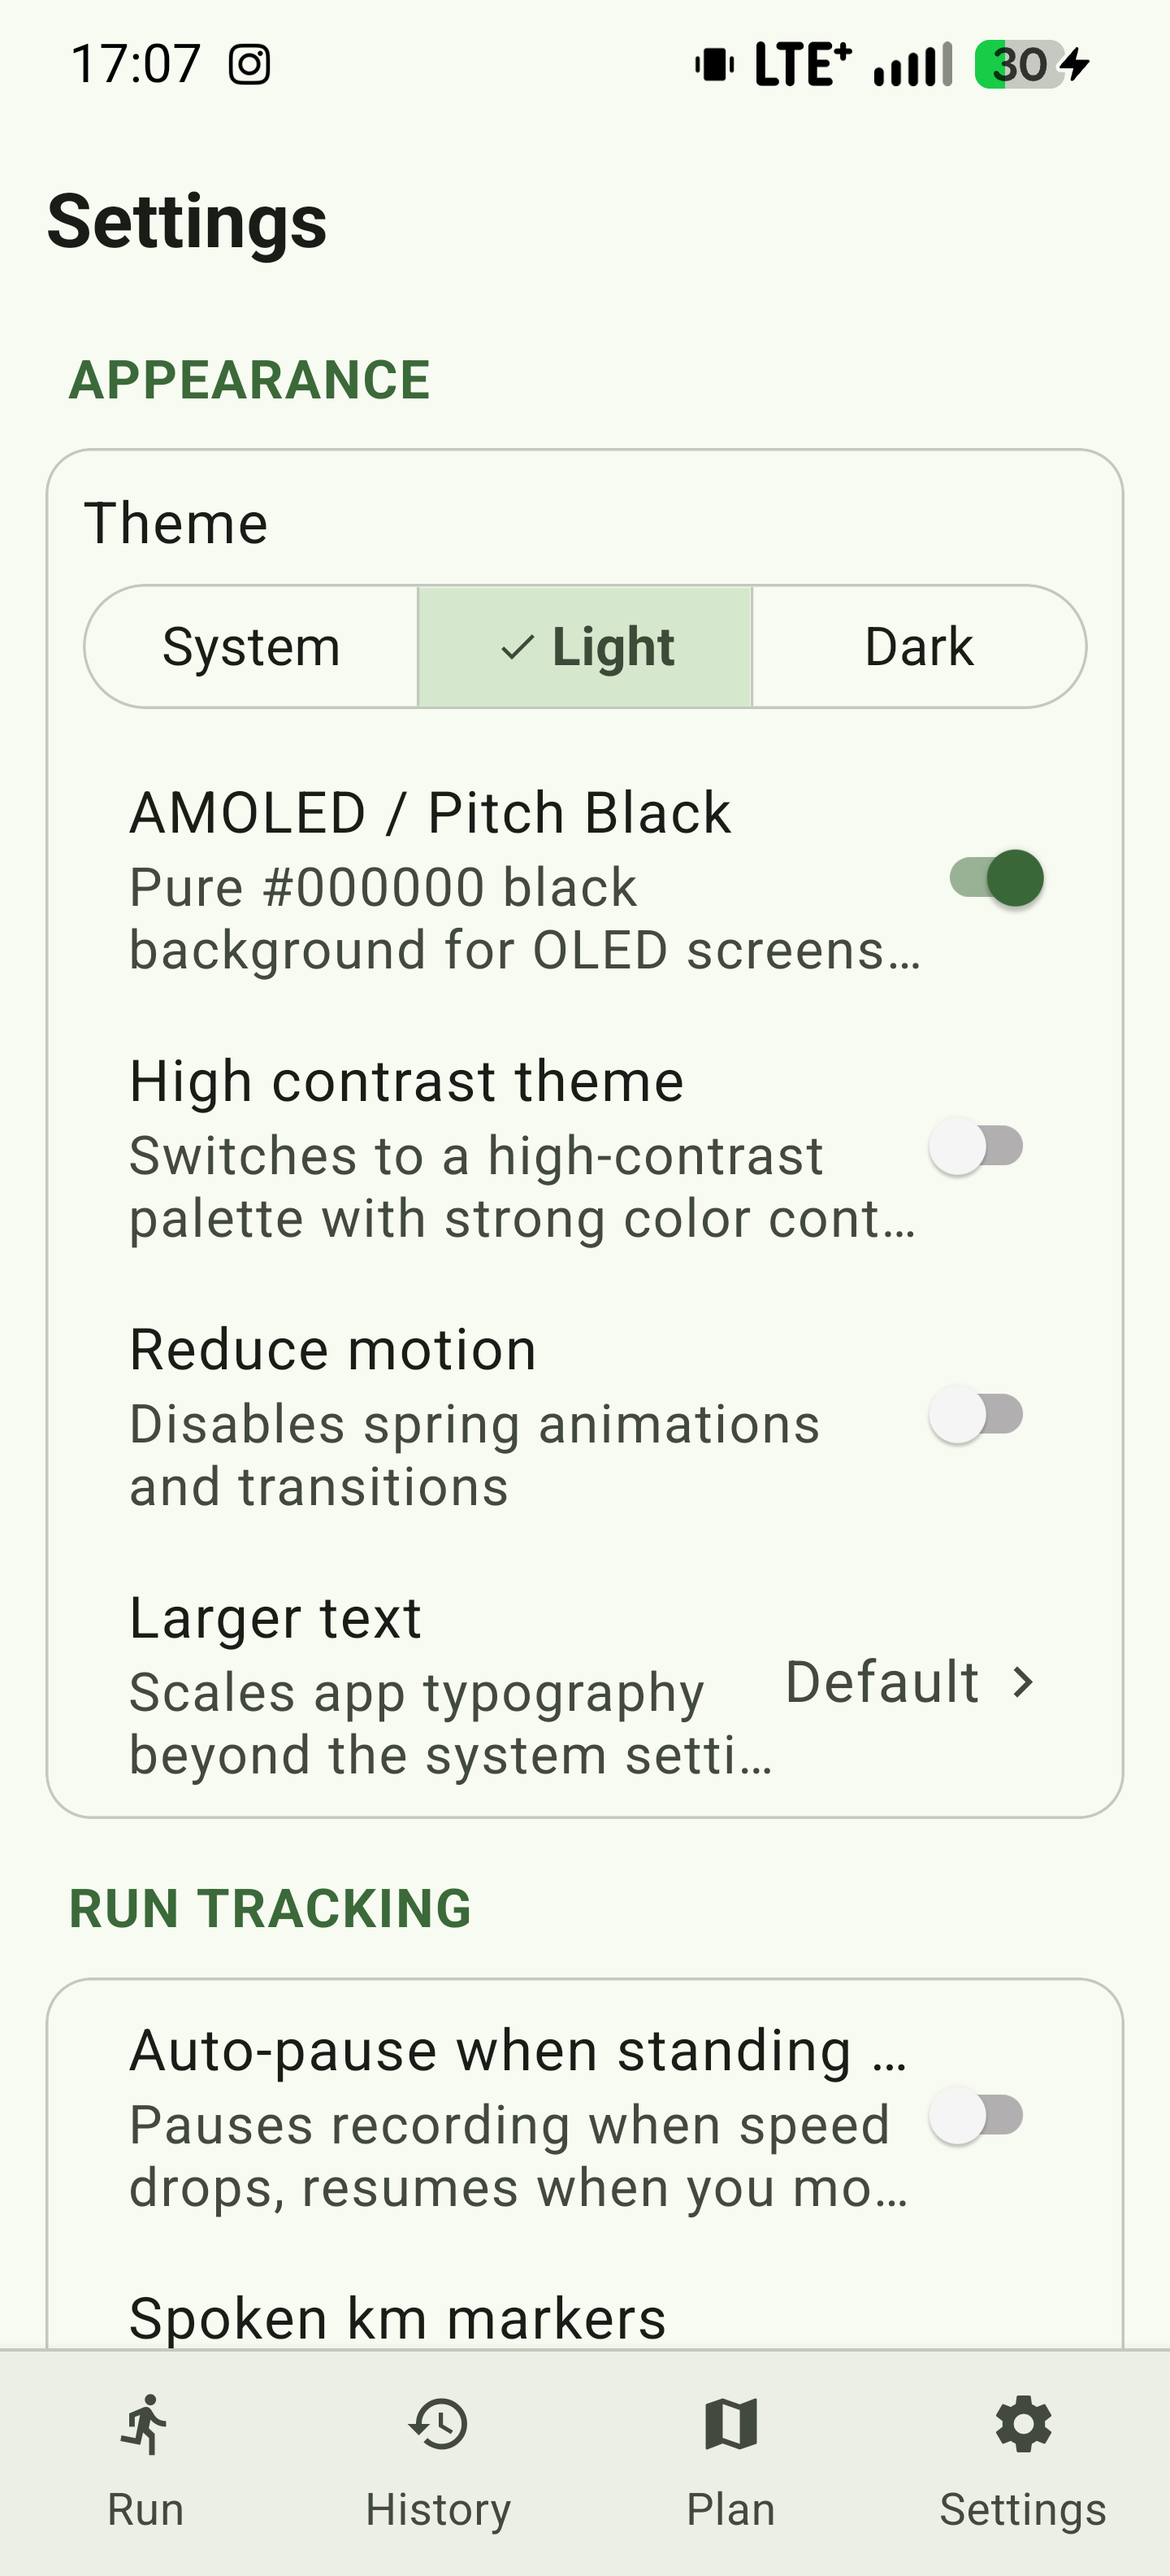
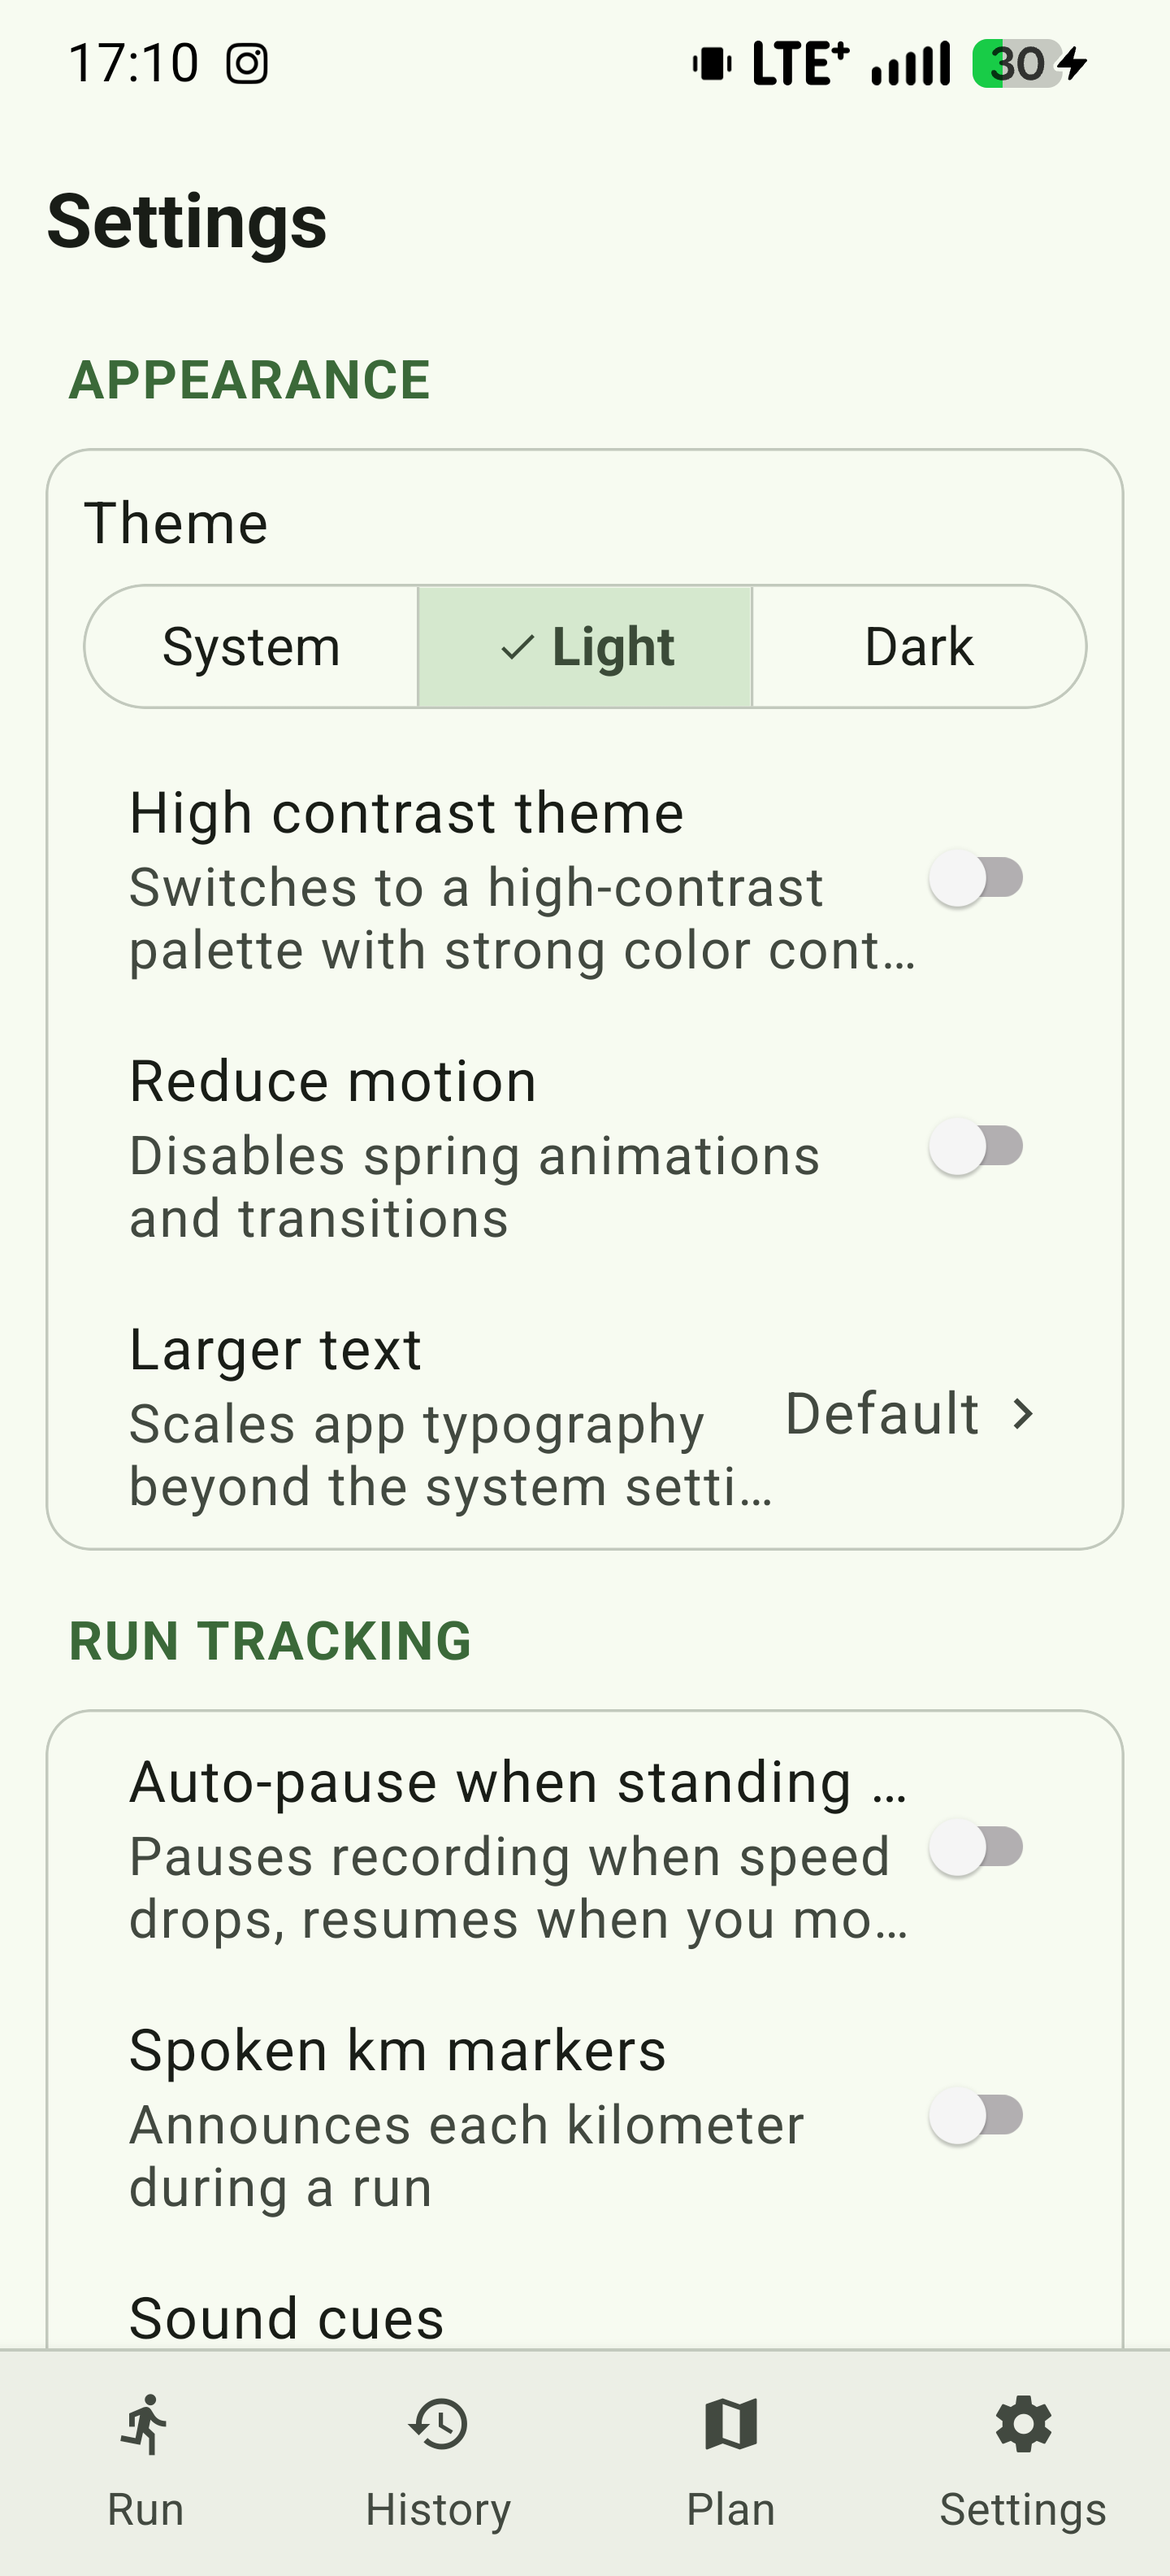
fix(settings): hide AMOLED toggle when Light theme is selected

diff --git a/src/screens/SettingsScreen.tsx b/src/screens/SettingsScreen.tsx
@@ -180,12 +180,18 @@ export function SettingsScreen() {
               ]}
             />
           </View>
-          <ToggleRow
-            label="AMOLED / Pitch Black"
-            hint="Pure #000000 black background for OLED screens (in dark mode)"
-            value={settings.amoledBlack}
-            onValueChange={setAmoledBlack}
-          />
+          {settings.themeMode !== 'light' ? (
+            <ToggleRow
+              label="AMOLED / Pitch Black"
+              hint={
+                settings.themeMode === 'system'
+                  ? 'Pure #000000 black background when system is in dark mode'
+                  : 'Pure #000000 black background for OLED screens'
+              }
+              value={settings.amoledBlack}
+              onValueChange={setAmoledBlack}
+            />
+          ) : null}
           <ToggleRow
             label="High contrast theme"
             hint="Switches to a high-contrast palette with strong color contrast"
